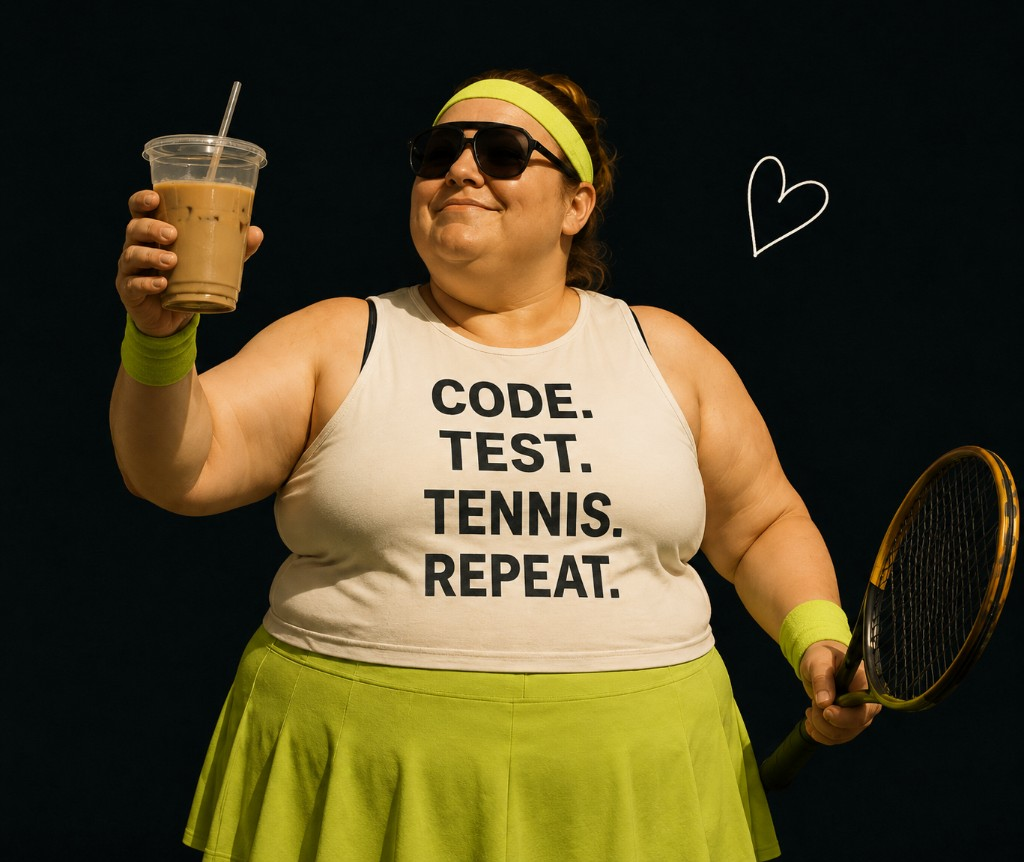
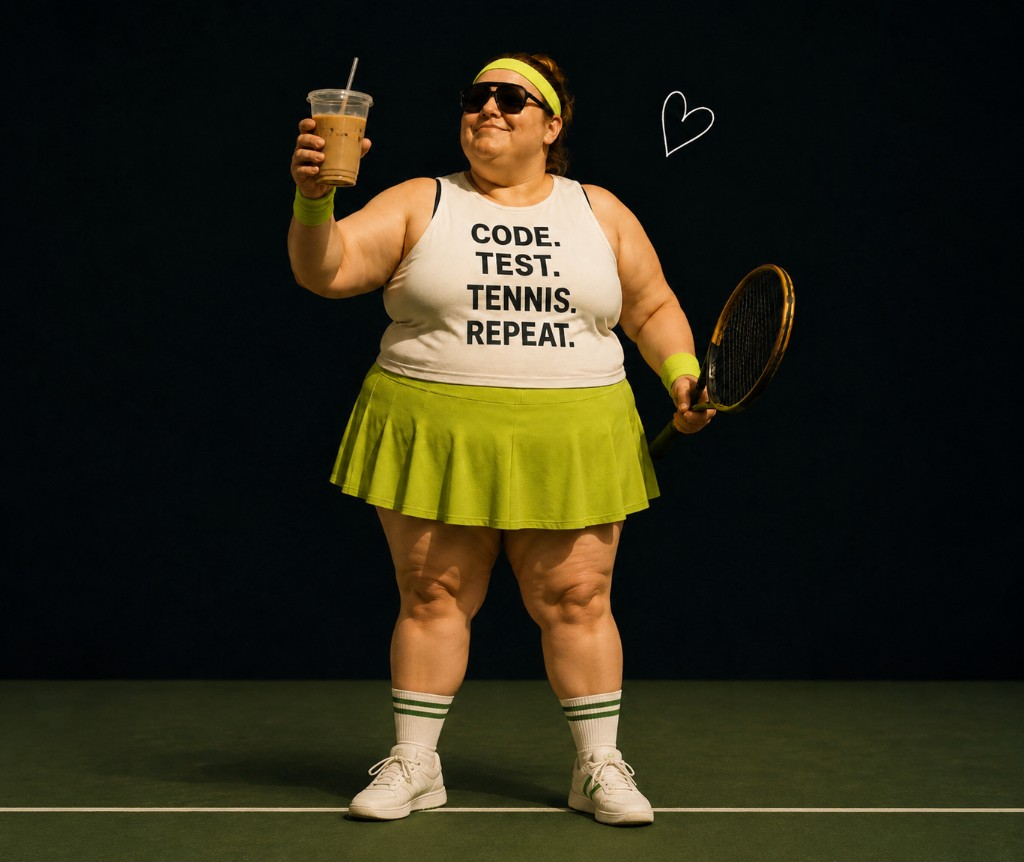
Update Sponsorship page hero to iced latte portrait.
Replace sponsorship-hero.png and adjust Image dimensions to match the new 1024×862 asset.

diff --git a/app/sponsorship/page.tsx b/app/sponsorship/page.tsx
@@ -414,8 +414,8 @@ export default function SponsorshipPage() {
                 <Image
                   src={HERO_IMAGE}
                   alt="Ugnė holding an iced latte and tennis racket — CODE. TEST. TENNIS. REPEAT."
-                  width={920}
-                  height={1024}
+                  width={1024}
+                  height={862}
                   className="w-full h-auto"
                   sizes="(max-width: 1024px) 100vw, 560px"
                   priority
@@ -429,8 +429,8 @@ export default function SponsorshipPage() {
               <Image
                 src={HERO_IMAGE}
                 alt="Ugnė holding an iced latte and tennis racket — CODE. TEST. TENNIS. REPEAT."
-                width={920}
-                height={1024}
+                width={1024}
+                height={862}
                 className="w-full h-auto"
                 sizes="100vw"
               />